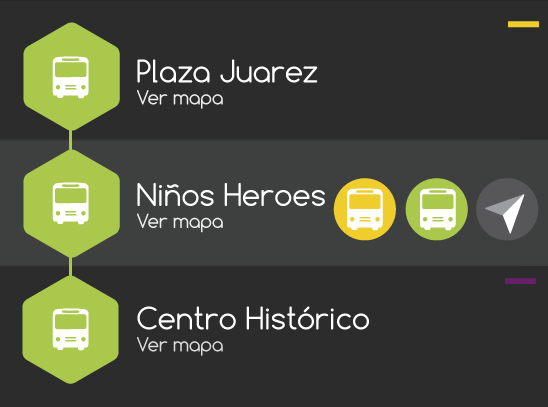
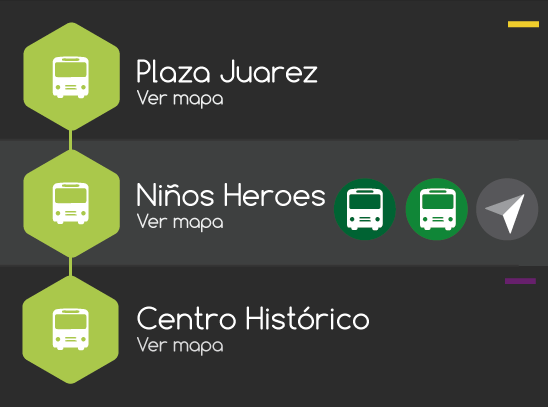
Ajustes en Como usar

Changed region(s): [[0.5894, 0.4128, 0.8686, 0.5897]]

diff --git a/views/comoUsar.html b/views/comoUsar.html
@@ -1,7 +1,7 @@
 <div class="comoUsar">
-	<h1>¿Cómo usar Tuzo Autobús App?</h1>
+	<h1>¿Cómo usar Tuzo Autobús?</h1>
 	<div class="col-xs-12">
-	<p class="text-center">¡Gracias por instalar Tuzo Autobús App!</p>
+	<p class="text-center">¡Gracias por instalar Tuzo Autobús!</p>
 	<p>En esta guia podrás conocer las funciones básicas de la app.</p>
 	<p>Accede rápidamente a las estaciones de la ruta troncal desde esta opción:</p>
 	<div class="text-center">
@@ -16,11 +16,19 @@
 	<div class="text-center">
 		<img src="assets/img/tutorial_4.png">
 	</div>
-	<p>Haz scroll en las estaciones para ver el mapa o los servicios express disponibles:</p>
+	<p>Haz scroll en las estaciones para ver el mapa o las Rutas exprés disponibles:</p>
 	<div class="text-center">
 		<img src="assets/img/tutorial_5.png">
 	</div>
-
-	<p class="text-center">¡Descubre todas las funciones de Tuzo Autobús App!</p>
+	<p>Los colores indican las rutas exprés que existen en cada estación, selecciona uno para ver a ruta. Haciendo clcik en la flecha verás el mapa.</p>
+	<div class="text-center">
+		<img src="assets/img/tutorial_6.png">
 	</div>
+	<!--p>Genera una ruta entre las estaciones:<p>
+	<div class="text-center">
+		<img src="assets/img/tutorial_7.png">
+	</div-->
+	<p class="text-center">¡Descubre todas las funciones de Tuzo Autobús!</p>
+	</div>
+
 </div>
